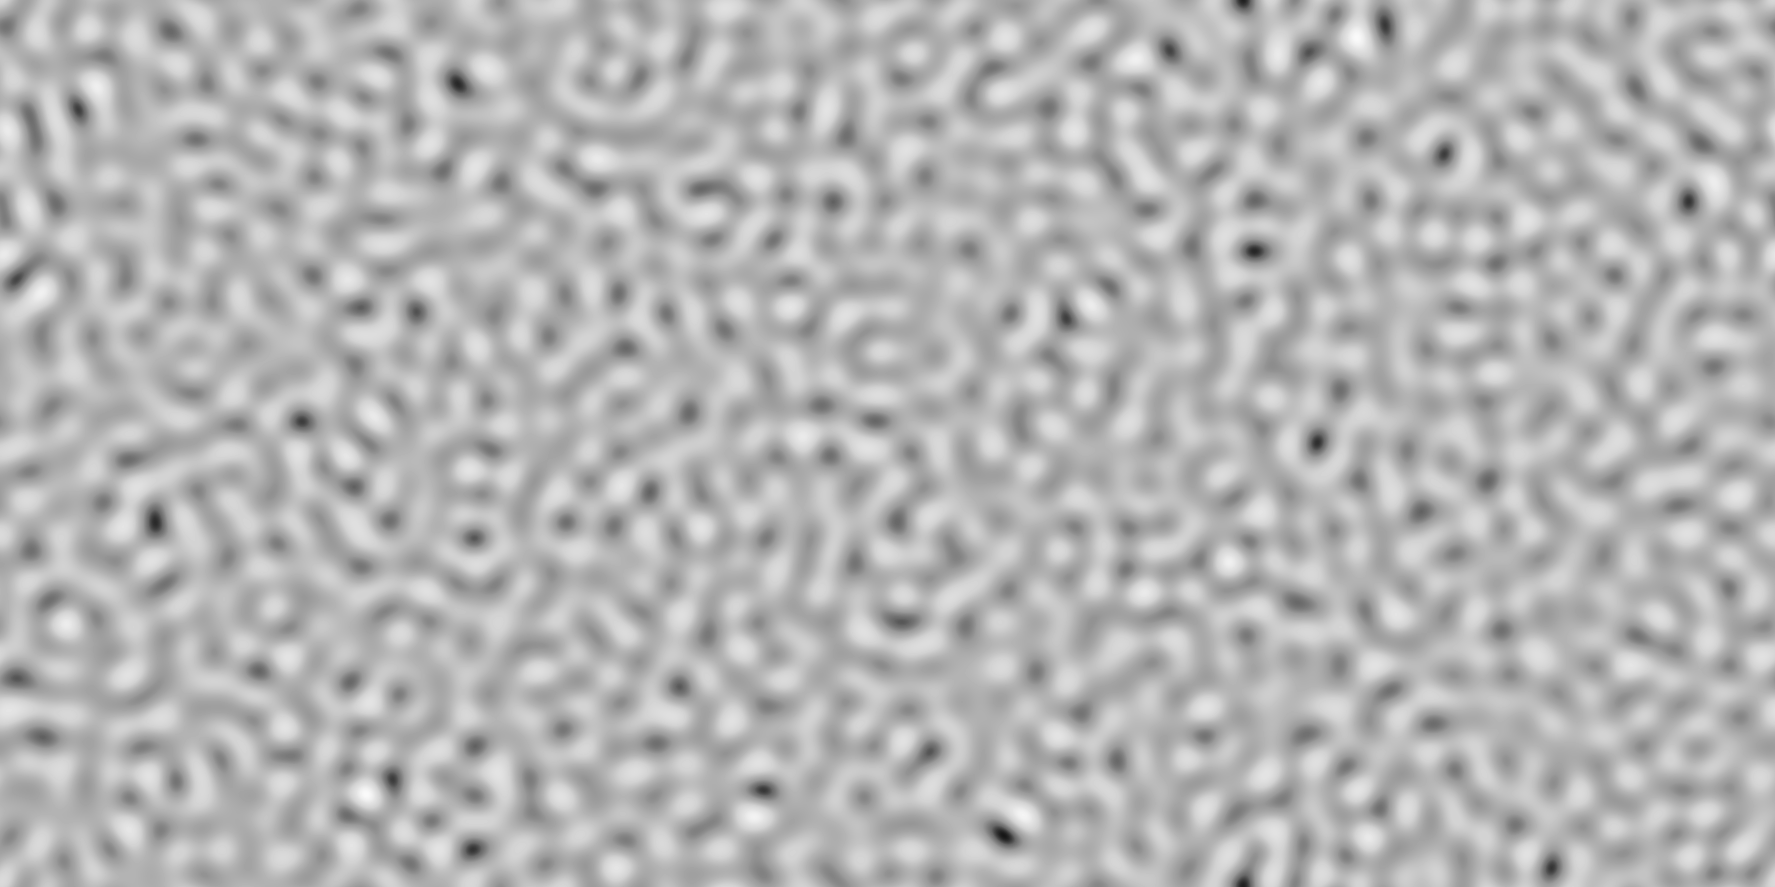
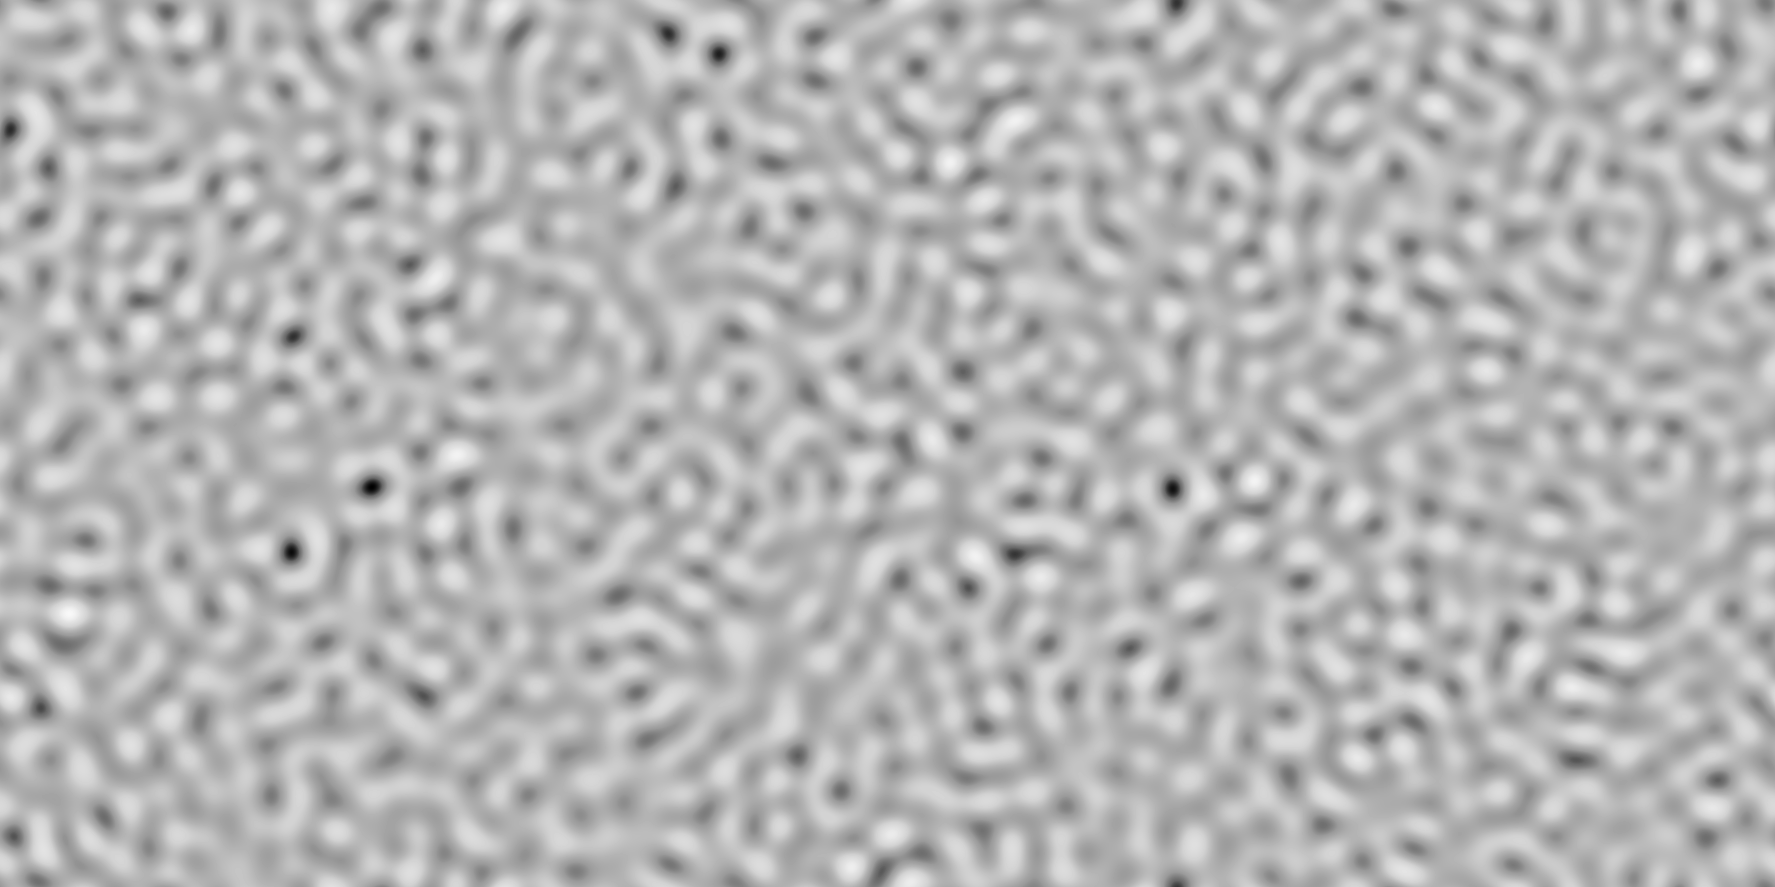
feature: Supra-thresholdの論文と同じデフォーカスマッチング手法をgaborに実装
- 画像は空間周波数2のチェッカーパターン

diff --git a/src/experiment/pre-experiment/pre-experiment-gabor.py b/src/experiment/pre-experiment/pre-experiment-gabor.py
@@ -24,7 +24,6 @@ BASE_IMG_DIR_2 = os.path.join(lab_root, "data", "processed", "images", "pre-expe
 RESULT_DIR = os.path.join(lab_root, "results", "tables", "pre-experiment-gabor")
 
 # --- デフォーカスマッチング設定 ---
-MATCHING_IMG_PATH = os.path.join(lab_root, "data", "processed", "images", "pre-experiment-gabor","bg_noise", "70cm","FG_8_5_0.5_BG_2_15_1.0.png") # デフォーカスマッチングに使用する画像のパス
 DEFOCUS_BLUR_SCALE_FACTOR = 0.55
 PUPIL_DIAMETER_MM = 4.0 # 瞳孔径 (mm)
 
@@ -73,7 +72,6 @@ class ExperimentApp:
         self.current_trial_in_block = 0
         self.current_trial_in_experiment = 0
         self.current_block_cond = None
-        self.match_image_visible = True # For defocus matching UI
         self.results = []
         self.key_bindings = {}
         self.eval_buttons = []
@@ -261,9 +259,10 @@ class ExperimentApp:
         canvas.create_line(tx(x1 - s), y1, tx(x1), y1, fill=color, width=line_width, tags="calib")
         canvas.create_line(tx(x1), y1 - s, tx(x1), y1, fill=color, width=line_width, tags="calib")
 
-    def draw_center_cross(self, canvas, color='white'):
+    def draw_center_cross(self, canvas, offset_x=0, offset_y=0, color='white'):
         """画面中央に一点へ向かう4つの矢尻（棒なし）を描画する"""
-        cx, cy = canvas.winfo_width() // 2, canvas.winfo_height() // 2
+        cx = canvas.winfo_width() // 2 + offset_x
+        cy = canvas.winfo_height() // 2 + offset_y
         
         # 矢尻の形状パラメータ（CROSS_SIZEを基準にサイズを大きく設定）
         d2 = int(CROSS_SIZE * 1.2)  # 先端から底辺までの距離
@@ -390,16 +389,13 @@ class ExperimentApp:
         self.key_bindings['<Return>'] = self.root.bind('<Return>', lambda event: self.start_experiment_block())
 
         # 指示
-        instruction_text = "Adjust the slider (Left/Right arrow keys) until the blur on Window 2 (simulated) matches Window 1 (natural blur).\n" \
-                           "Switch between natural (Win1) and simulated (Win2) views (Up/Down arrow keys)."
+        instruction_text = "Adjust the slider (Left/Right arrow keys) until the blur on Window 2 (simulated) matches Window 1 (natural blur)."
         tk.Label(self.ctrl_frame, text=instruction_text, 
                  bg='gray', fg='white', font=("Arial", 12)).pack(pady=10, padx=20)
 
         # Bind keys for defocus matching
         self.key_bindings['<Left>'] = self.root.bind('<Left>', lambda e: self._handle_defocus_key_press(e))
         self.key_bindings['<Right>'] = self.root.bind('<Right>', lambda e: self._handle_defocus_key_press(e))
-        self.key_bindings['<Up>'] = self.root.bind('<Up>', lambda e: self._handle_defocus_key_press(e))
-        self.key_bindings['<Down>'] = self.root.bind('<Down>', lambda e: self._handle_defocus_key_press(e))
         self.root.focus_set() # Ensure root has focus for key events
 
         # 初回表示
@@ -408,7 +404,6 @@ class ExperimentApp:
     def _handle_defocus_key_press(self, event):
         """Handles key presses for defocus matching UI.
         Left arrow increases defocus, Right arrow decreases defocus (reversed from typical).
-        Up/Down arrow toggles visibility of the simulated image.
         """
         step = 0.05  # Step for defocus adjustment
         current_defocus = self.defocus_val.get()
@@ -421,8 +416,6 @@ class ExperimentApp:
         elif event.keysym == 'Right': # Decrease defocus value (reversed logic: Right arrow decreases D)
             new_val = max(min_val, current_defocus - step)
             self.defocus_val.set(new_val)
-        elif event.keysym == 'Up' or event.keysym == 'Down':
-            self.match_image_visible = not self.match_image_visible
         
         self.update_defocus_view()
         return "break"
@@ -450,46 +443,54 @@ class ExperimentApp:
         sigma_pixels = sigma_deg * pixels_per_deg_fg
 
         # --- 動的にマッチング用画像を取得 ---
-        cpd = self.current_block_cond["spatial_freq"]
-        bg_img_dir = os.path.join(BASE_IMG_DIR_1, f'{d_bg}cm', f'{cpd}cpd')
-        sample_images = glob.glob(os.path.join(bg_img_dir, '*'))
-        matching_img_path = sample_images[0] if sample_images else MATCHING_IMG_PATH
+        matching_dir = os.path.join(lab_root, "data", "processed", "images", "pre-experiment-gabor", "defocus-matching")
+        fg_img_path = os.path.join(matching_dir, f"FG_checker_{d_fg}cm.png")
+        bg_img_path = os.path.join(matching_dir, f"BG_checker_{d_bg}cm.png")
 
         # 2. 画像の読み込みと加工
         try:
-            img_base = Image.open(matching_img_path)
+            img_fg = Image.open(fg_img_path)
         except Exception as e:
-            # 画像がない場合のフォールバック（白い正方形）
-            img_base = Image.new('RGB', (100, 100), (255, 255, 255))
-            print(f"Error loading matching image: {e}")
+            img_fg = Image.new('RGB', (fg_size, fg_size // 2), (255, 255, 255))
+            print(f"Error loading matching FG image: {e}")
+
+        try:
+            img_bg = Image.open(bg_img_path)
+        except Exception as e:
+            img_bg = Image.new('RGB', (bg_size, bg_size // 2), (255, 255, 255))
+            print(f"Error loading matching BG image: {e}")
 
         # 前景用 (Blurred)
-        img_fg = img_base.resize((fg_size, fg_size), Image.LANCZOS)
+        img_fg = img_fg.resize((fg_size, fg_size // 2), Image.LANCZOS)
         if sigma_pixels > 0:
             img_fg = img_fg.filter(ImageFilter.GaussianBlur(radius=sigma_pixels))
         img_fg = img_fg.transpose(Image.FLIP_LEFT_RIGHT) # 実験者ビュー用に左右反転
-        self.photo_match_fg = ImageTk.PhotoImage(img_fg)
 
         # 背景用 (Sharp)
-        img_bg = img_base.resize((bg_size, bg_size), Image.LANCZOS)
+        img_bg = img_bg.resize((bg_size, bg_size // 2), Image.LANCZOS)
+
+        dy_fg = fg_size // 4
+        dy_bg = -bg_size // 4
+
+        self.photo_match_fg = ImageTk.PhotoImage(img_fg)
         self.photo_match_bg = ImageTk.PhotoImage(img_bg)
 
         # 3. 描画
         # Window 1 (Background Display)
         ox, oy = self.offset_x.get(), self.offset_y.get()
+        cx1, cy1 = self.width//2 + ox, self.height//2 + oy
+        self.canvas1.create_image(cx1, cy1 + dy_bg, image=self.photo_match_bg, anchor='center', tags="match")
 
-        # self.match_image_visible の状態に応じて表示を切り替える
-        if self.match_image_visible:
-            # Window 2 (Foreground/Simulated) を表示し、Window 1 を非表示
-            self.canvas2.create_image(self.canvas2.winfo_width()//2, self.canvas2.winfo_height()//2, image=self.photo_match_fg, anchor='center', tags="match")
-        else:
-            # Window 1 (Background/Natural) を表示し、Window 2 を非表示
-            self.canvas1.create_image(self.width//2 + ox, self.height//2 + oy, image=self.photo_match_bg, anchor='center', tags="match")
-            # Window 2 には十字を表示
-            self.draw_center_cross(self.canvas2, color=WIN2_MARKER_COLOR)
+        # Window 2 (Foreground/Simulated)
+        cx2, cy2 = self.canvas2.winfo_width()//2, self.canvas2.winfo_height()//2
+        self.canvas2.create_image(cx2, cy2 + dy_fg, image=self.photo_match_fg, anchor='center', tags="match")
         
-        # 枠も再描画 (白い枠を表示したままで)
-        self.draw_image_corner_brackets(self.canvas2, fg_size, fg_size, 0, 0, color=WIN2_MARKER_COLOR, line_width=MARKER_LINE_WIDTH)
+        # 枠と十字マーカーの再描画 (上下それぞれの領域に)
+        self.draw_image_corner_brackets(self.canvas2, fg_size, fg_size // 2, 0, -fg_size // 4, color=WIN2_MARKER_COLOR, line_width=MARKER_LINE_WIDTH)
+        self.draw_center_cross(self.canvas2, offset_x=0, offset_y=-fg_size // 4, color=WIN2_MARKER_COLOR)
+        
+        self.draw_image_corner_brackets(self.canvas2, fg_size, fg_size // 2, 0, fg_size // 4, color=WIN2_MARKER_COLOR, line_width=MARKER_LINE_WIDTH)
+        self.draw_center_cross(self.canvas2, offset_x=0, offset_y=fg_size // 4, color=WIN2_MARKER_COLOR)
 
     def _update_eval_highlight(self):
         """Highlights the currently selected evaluation button."""

diff --git a/src/experiment/stimuli/generate_gabor_and_noise_stimuli.py b/src/experiment/stimuli/generate_gabor_and_noise_stimuli.py
@@ -204,6 +204,22 @@ def create_band_limited_noise(width_px, height_px, ppd, f_center_cpd, bandwidth_
     
     return noise_filtered
 
+def create_checkerboard(width_px, height_px, ppd, cpd):
+    """
+    指定されたピクセルサイズと空間周波数(cpd)で白黒のチェッカーボードを作成する。
+    値は -1 と 1 で返す。
+    """
+    square_size = ppd / (2 * cpd)
+    
+    x = np.arange(width_px)
+    y = np.arange(height_px)
+    X, Y = np.meshgrid(x, y)
+    
+    checker = ((X // square_size).astype(int) + (Y // square_size).astype(int)) % 2
+    checker = checker * 2 - 1
+    
+    return checker
+
 def generate_gabor_stimuli(output_dir, distances, fg_params_list, bg_params_list, calib_data):
     """前景用のガボール刺激画像をまとめて生成する"""
     print("--- Generating Gabor Patches (Foreground) ---")
@@ -276,6 +292,45 @@ def generate_noise_stimuli(output_dir, distances, fg_params_list, bg_params_list
                 noise_filename = os.path.join(noise_dir, f"FG_{fg_mean_lum}_{fg_contrast}_BG_{bg_mean_lum}_{bg_contrast}.png")
                 plt.imsave(noise_filename, pixel_map_noise, cmap='gray', vmin=0, vmax=255)
 
+def generate_checkerboard_stimuli(output_dir, distances_fg, distances_bg, calib_data):
+    """デフォーカスマッチング用のチェッカーボード刺激を生成する"""
+    print("\n--- Generating Checkerboard Patches (Defocus Matching) ---")
+    fg_sorted_lums, fg_sorted_pixels = calib_data[0]
+    bg_sorted_lums, bg_sorted_pixels = calib_data[1]
+
+    matching_dir = os.path.join(output_dir, "defocus-matching")
+    os.makedirs(matching_dir, exist_ok=True)
+
+    cpd = 2  # チェッカーボードの空間周波数 (cpd)
+    mean_lum = 15
+    contrast = 1.0
+
+    # 前景用
+    for distance in distances_fg:
+        ppd = calculate_ppd(distance, SCREEN_WIDTH_CM, SCREEN_RES_X_PX)
+        req_w, req_h = get_stimulus_pixel_size(STIM_WIDTH_DEG, STIM_HEIGHT_DEG/2, ppd)
+        
+        checker_mod_v = create_checkerboard(req_w, req_h, ppd, cpd)
+        lum_map_v = mean_lum * (1 + contrast * checker_mod_v)
+        pixel_map_v = luminance_to_pixel(lum_map_v, fg_sorted_lums, fg_sorted_pixels)
+        
+        filename = os.path.join(matching_dir, f"FG_checker_{distance}cm.png")
+        plt.imsave(filename, pixel_map_v, cmap='gray', vmin=0, vmax=255)
+        print(f"  Saved FG checker ({distance}cm): {filename}")
+
+    # 背景用
+    for distance in distances_bg:
+        ppd = calculate_ppd(distance, SCREEN_WIDTH_CM, SCREEN_RES_X_PX)
+        req_w, req_h = get_stimulus_pixel_size(STIM_WIDTH_DEG, STIM_HEIGHT_DEG/2, ppd)
+        
+        checker_mod_v = create_checkerboard(req_w, req_h, ppd, cpd)
+        lum_map_v = mean_lum * (1 + contrast * checker_mod_v)
+        pixel_map_v = luminance_to_pixel(lum_map_v, bg_sorted_lums, bg_sorted_pixels)
+        
+        filename = os.path.join(matching_dir, f"BG_checker_{distance}cm.png")
+        plt.imsave(filename, pixel_map_v, cmap='gray', vmin=0, vmax=255)
+        print(f"  Saved BG checker ({distance}cm): {filename}")
+
 # ==========================================
 # 4. メイン実行ブロック
 # ==========================================
@@ -302,6 +357,7 @@ if __name__ == "__main__":
     # --- [追加] 既存の出力フォルダをクリーンアップ ---
     fg_output_base_dir = os.path.join(OUTPUT_DIR, "fg_gabor")
     bg_output_base_dir = os.path.join(OUTPUT_DIR, "bg_noise")
+    match_output_dir = os.path.join(OUTPUT_DIR, "defocus-matching")
 
     if os.path.exists(fg_output_base_dir):
         print(f"既存のフォルダを削除します: {fg_output_base_dir}")
@@ -310,6 +366,10 @@ if __name__ == "__main__":
     if os.path.exists(bg_output_base_dir):
         print(f"既存のフォルダを削除します: {bg_output_base_dir}")
         shutil.rmtree(bg_output_base_dir)
+
+    if os.path.exists(match_output_dir):
+        print(f"既存のフォルダを削除します: {match_output_dir}")
+        shutil.rmtree(match_output_dir)
 
     # --- [新規] 輝度-ピクセル変換の準備 ---
     # 最新のキャリブレーション結果を読み込む (Foreground)
@@ -344,6 +404,14 @@ if __name__ == "__main__":
         fg_params_list=fg_params_list,
         bg_params_list=bg_params_list,
         calib_data=(bg_sorted_lums, bg_sorted_pixels)
+    )
+
+    # --- デフォーカスマッチング用のチェッカー画像の生成 ---
+    generate_checkerboard_stimuli(
+        output_dir=OUTPUT_DIR,
+        distances_fg=FG_DISTANCES_CM,
+        distances_bg=BG_DISTANCES_CM,
+        calib_data=((fg_sorted_lums, fg_sorted_pixels), (bg_sorted_lums, bg_sorted_pixels))
     )
 
     print("\n--- 全ての刺激画像の生成が完了しました ---")
